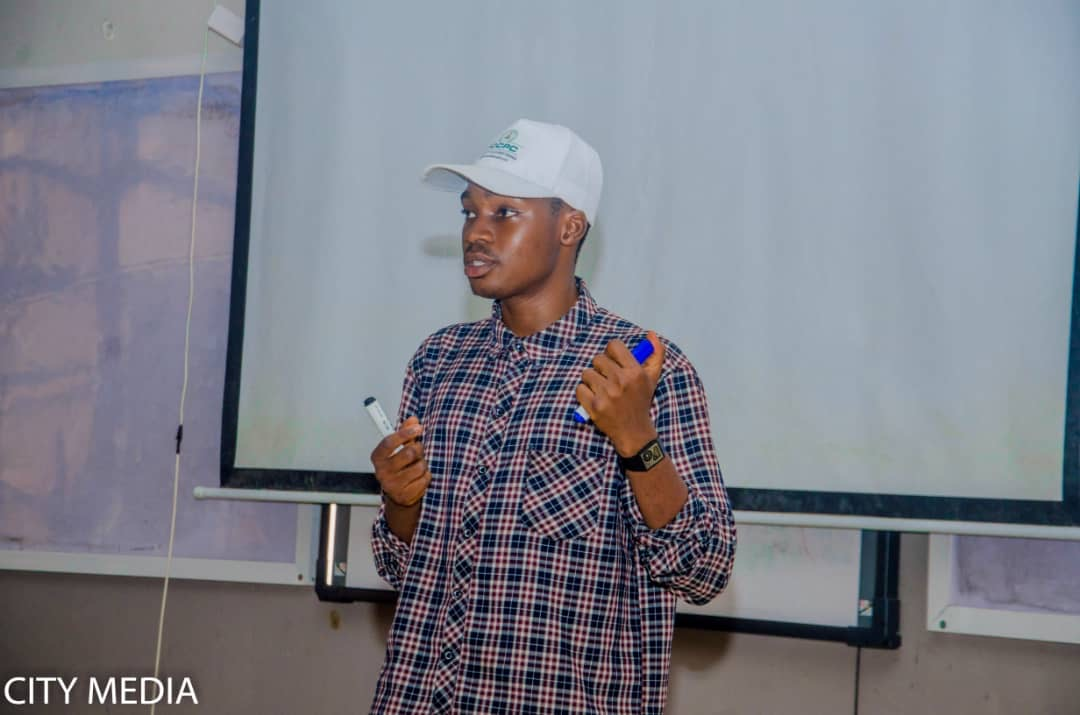
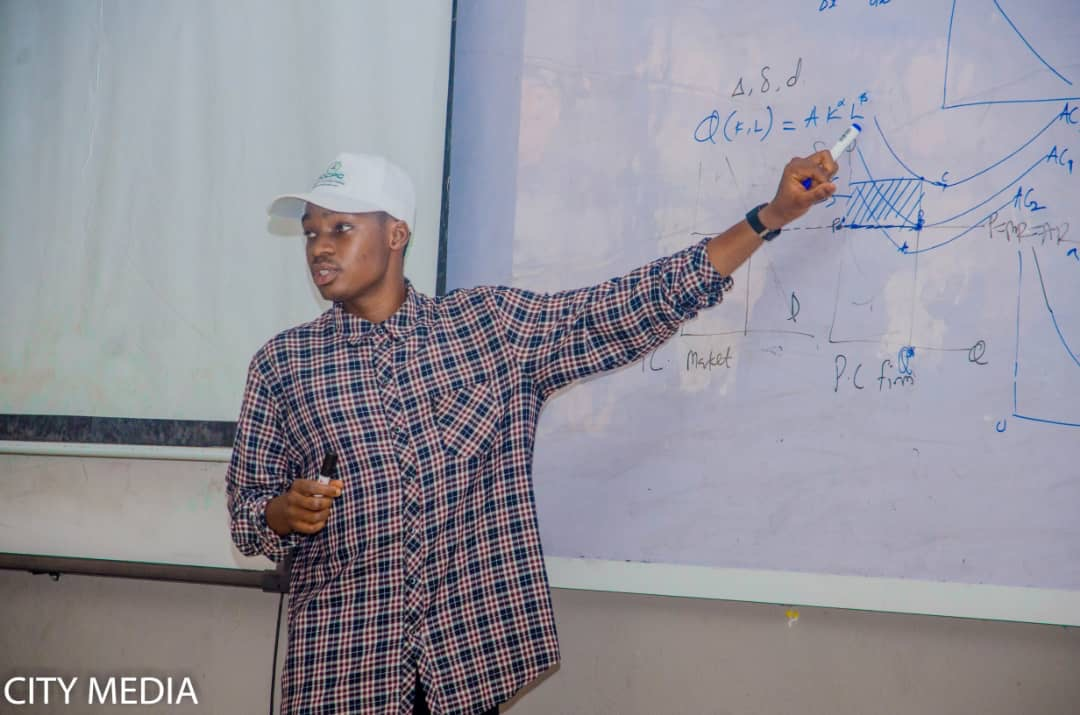
Concise year and location captions on all slideshows; use cost curves photo for 2017 slide
Claude-Session: https://claude.ai/code/session_01EyAV5mvgpp54gZxAZck6sP

diff --git a/teaching.html b/teaching.html
@@ -1,1 +1,1 @@
-<!doctype html><html lang="en"><head><meta charset="utf-8"><meta name="viewport" content="width=device-width,initial-scale=1"><title>Teaching | Muiz Olasupo</title><link rel="canonical" href="https://muizolasupo.com/teaching.html"><meta name="description" content="Teaching by Muiz Olasupo, Ph.D. student in Economics at the University at Buffalo: courses supported and teaching approach."><link rel="preconnect" href="https://fonts.googleapis.com"><link rel="preconnect" href="https://fonts.gstatic.com" crossorigin><link href="https://fonts.googleapis.com/css2?family=Barlow+Condensed:wght@500;600;700&family=Inter:wght@400;500;600;700&display=swap" rel="stylesheet"><link rel="stylesheet" href="/styles.css"><link rel="stylesheet" href="/story.css"><link rel="stylesheet" href="/photo-story.css"><link rel="stylesheet" href="/monochrome.css"><link rel="stylesheet" href="/refinements.css?v=20261004"></head><body><nav class="nav" aria-label="Main navigation"><div class="wrap"><a class="brand" href="index.html">Muiz Olasupo<b>.</b></a><div class="links"><a href="index.html">Home</a><a href="about.html">About</a><a href="papers.html">Working Papers / Publications</a><a href="innovation.html">Innovation</a><a class="active" aria-current="page" href="teaching.html">Teaching</a><a href="cv.html">CV</a><a href="contact.html">Contact</a></div></div></nav><main><header class="page-head"><div class="wrap"><h1>Teaching</h1><p>I help students connect economic ideas to evidence through clear explanations, worked examples, and discussion.</p></div></header><section><div class="wrap"><div class="about-row"><h2>Courses supported</h2><ul class="course-list"><li>Microeconomics</li><li>Macroeconomics</li><li>U.S. Economic History</li><li>AI and Economic Policy</li><li>Monetary and Financial Institutions</li><li>Economics of Education</li></ul></div><div class="about-row"><h2>My approach</h2><p>I use guided worksheets and applied examples to help students understand the reasoning behind an answer. The aim is to build confidence with economic intuition, graphs, and formal analysis.</p></div><div class="carousel story-carousel photo-gallery teaching-gallery" data-carousel tabindex="0" aria-label="Teaching photographs"><div class="slides"><article class="slide story-slide active"><div class="story-surface"><figure class="story-photo"><img src="/images/teaching-fall2026-UB1.jpg" alt="Muiz Olasupo explaining a price ceiling diagram to a lecture hall at the University at Buffalo" loading="eager" decoding="async"></figure></div><div class="story-text"><span class="slide-kicker">Fall 2026 · University at Buffalo (SUNY)</span><h2>Price controls and shortages</h2><p>Using a price ceiling to show how a gap opens between quantity demanded and quantity supplied, and why the shortage persists while the ceiling binds.</p></div></article><article class="slide story-slide" hidden><div class="story-surface"><figure class="story-photo"><img src="/images/teaching-fall2026-UB2.jpg" alt="Muiz Olasupo presenting an applied pricing problem to a full lecture hall at the University at Buffalo" loading="lazy" decoding="async"></figure></div><div class="story-text"><span class="slide-kicker">Fall 2026 · University at Buffalo (SUNY)</span><h2>Supply and demand in a pricing decision</h2><p>An applied problem for a full lecture hall: students use market research on subscriptions to judge what price a new app can sustain.</p></div></article><article class="slide story-slide" hidden><div class="story-surface"><figure class="story-photo"><img src="/images/teaching-fall2024-SIUC1.jpg" alt="Muiz Olasupo explaining average and marginal product of labor on a chalkboard at Southern Illinois University Carbondale" loading="lazy" decoding="async"></figure></div><div class="story-text"><span class="slide-kicker">Fall 2024 · Southern Illinois University Carbondale</span><h2>Average and marginal product</h2><p>Deriving average and marginal product from y = 10L² − L³, and showing that marginal product exceeds average product until L = 5, where average product peaks.</p></div></article><article class="slide story-slide" hidden><div class="story-surface"><figure class="story-photo"><img src="/images/teaching-fall2024-SIUC2.jpg" alt="Muiz Olasupo solving a system of equations with an augmented matrix at Southern Illinois University Carbondale" loading="lazy" decoding="async"></figure></div><div class="story-text"><span class="slide-kicker">Fall 2024 · Southern Illinois University Carbondale</span><h2>Solving systems with matrices</h2><p>Writing a three-equation system as an augmented matrix and solving it step by step with row operations.</p></div></article><article class="slide story-slide" hidden><div class="story-surface"><figure class="story-photo"><img src="/images/teaching-2018-2021-NG1.jpg" alt="Muiz Olasupo teaching English grammar to a class in Nigeria" loading="lazy" decoding="async"></figure></div><div class="story-text"><span class="slide-kicker">2018 to 2021 · Nigeria</span><h2>Grammatical names and functions</h2><p>A Use of English lesson on how a noun phrase can serve as the subject of a verb, the object of a verb, or a complement, with worked sentences on the board.</p></div></article><article class="slide story-slide" hidden><div class="story-surface"><figure class="story-photo"><img src="/images/teaching-2018-2021-NG2.jpg" alt="Muiz Olasupo writing a list of verbs followed by the preposition to on a whiteboard" loading="lazy" decoding="async"></figure></div><div class="story-text"><span class="slide-kicker">2018 to 2021 · Nigeria</span><h2>Verbs that take “to”</h2><p>Building a reference list of verbs followed by the preposition “to”, such as adapt, agree, belong, and consent.</p></div></article><article class="slide story-slide" hidden><div class="story-surface"><figure class="story-photo"><img src="/images/teaching-2017-UI1.jpg" alt="Muiz Olasupo leading an economics tutorial at the University of Ibadan in 2017" loading="lazy" decoding="async"></figure></div><div class="story-text"><span class="slide-kicker">2017 · Social Science LLT, University of Ibadan</span><h2>Production and cost theory</h2><p>Leading a tutorial on the theory of the firm, from the Cobb-Douglas production function to the cost curves of a competitive firm.</p></div></article></div><p class="sr-only" data-slide-status aria-live="polite"></p><div class="story-bottom"><div class="carousel-dots"><button class="carousel-dot active" aria-label="Show photograph 1: Price controls" aria-pressed="true"><span class="sr-only">Price controls</span></button><button class="carousel-dot" aria-label="Show photograph 2: Pricing decision" aria-pressed="false"><span class="sr-only">Pricing decision</span></button><button class="carousel-dot" aria-label="Show photograph 3: Average and marginal product" aria-pressed="false"><span class="sr-only">Average and marginal product</span></button><button class="carousel-dot" aria-label="Show photograph 4: Matrix methods" aria-pressed="false"><span class="sr-only">Matrix methods</span></button><button class="carousel-dot" aria-label="Show photograph 5: Grammatical functions" aria-pressed="false"><span class="sr-only">Grammatical functions</span></button><button class="carousel-dot" aria-label="Show photograph 6: Verbs with &quot;to&quot;" aria-pressed="false"><span class="sr-only">Verbs with &quot;to&quot;</span></button><button class="carousel-dot" aria-label="Show photograph 7: Theory of the firm" aria-pressed="false"><span class="sr-only">Theory of the firm</span></button></div><div class="carousel-controls"><button class="carousel-btn prev" aria-label="Previous photograph">←</button><button class="carousel-btn next" aria-label="Next photograph">→</button></div></div></div></div></section></main><footer><div class="wrap foot"><span>© <span data-year></span> Muiz Olasupo</span><div class="social-links" aria-label="Professional profiles"><a class="social-icon " href="https://www.linkedin.com/in/muizolasupo" aria-label="LinkedIn" title="LinkedIn" target="_blank" rel="noopener"><img src="/icons/linkedin.svg" alt=""></a><a class="social-icon" href="https://github.com/muizolasupo" aria-label="GitHub" title="GitHub" target="_blank" rel="noopener"><img src="/icons/github.svg" alt=""></a><a class="social-icon ub-icon" href="https://arts-sciences.buffalo.edu/economics/graduate/meet-our-graduatestudents.html" aria-label="University at Buffalo" title="University at Buffalo" target="_blank" rel="noopener"><img src="/icons/ub.png" alt=""></a><a class="social-icon" href="https://papers.ssrn.com/sol3/cf_dev/AbsByAuth.cfm?per_id=8171556" aria-label="SSRN author page" title="SSRN author page" target="_blank" rel="noopener"><img src="/icons/ssrn.svg" alt=""></a><a class="social-icon meso-logo" href="https://mesoinsights.com" target="_blank" rel="noopener" aria-label="Meso Insights" title="Meso Insights"><img src="/icons/meso.png" alt=""></a></div></div></footer><script src="/site.js?v=20261003b"></script></body></html>
+<!doctype html><html lang="en"><head><meta charset="utf-8"><meta name="viewport" content="width=device-width,initial-scale=1"><title>Teaching | Muiz Olasupo</title><link rel="canonical" href="https://muizolasupo.com/teaching.html"><meta name="description" content="Teaching by Muiz Olasupo, Ph.D. student in Economics at the University at Buffalo: courses supported and teaching approach."><link rel="preconnect" href="https://fonts.googleapis.com"><link rel="preconnect" href="https://fonts.gstatic.com" crossorigin><link href="https://fonts.googleapis.com/css2?family=Barlow+Condensed:wght@500;600;700&family=Inter:wght@400;500;600;700&display=swap" rel="stylesheet"><link rel="stylesheet" href="/styles.css"><link rel="stylesheet" href="/story.css"><link rel="stylesheet" href="/photo-story.css"><link rel="stylesheet" href="/monochrome.css"><link rel="stylesheet" href="/refinements.css?v=20261004"></head><body><nav class="nav" aria-label="Main navigation"><div class="wrap"><a class="brand" href="index.html">Muiz Olasupo<b>.</b></a><div class="links"><a href="index.html">Home</a><a href="about.html">About</a><a href="papers.html">Working Papers / Publications</a><a href="innovation.html">Innovation</a><a class="active" aria-current="page" href="teaching.html">Teaching</a><a href="cv.html">CV</a><a href="contact.html">Contact</a></div></div></nav><main><header class="page-head"><div class="wrap"><h1>Teaching</h1><p>I help students connect economic ideas to evidence through clear explanations, worked examples, and discussion.</p></div></header><section><div class="wrap"><div class="about-row"><h2>Courses supported</h2><ul class="course-list"><li>Microeconomics</li><li>Macroeconomics</li><li>U.S. Economic History</li><li>AI and Economic Policy</li><li>Monetary and Financial Institutions</li><li>Economics of Education</li></ul></div><div class="about-row"><h2>My approach</h2><p>I use guided worksheets and applied examples to help students understand the reasoning behind an answer. The aim is to build confidence with economic intuition, graphs, and formal analysis.</p></div><div class="carousel story-carousel photo-gallery teaching-gallery" data-carousel tabindex="0" aria-label="Teaching photographs"><div class="slides"><article class="slide story-slide active"><div class="story-surface"><figure class="story-photo"><img src="/images/teaching-fall2026-UB1.jpg" alt="Muiz Olasupo explaining a price ceiling diagram to a lecture hall at the University at Buffalo" loading="eager" decoding="async"></figure></div><div class="story-text"><h2>Fall 2026</h2><p>University at Buffalo (SUNY)</p></div></article><article class="slide story-slide" hidden><div class="story-surface"><figure class="story-photo"><img src="/images/teaching-fall2026-UB2.jpg" alt="Muiz Olasupo presenting an applied pricing problem to a full lecture hall at the University at Buffalo" loading="lazy" decoding="async"></figure></div><div class="story-text"><h2>Fall 2026</h2><p>University at Buffalo (SUNY)</p></div></article><article class="slide story-slide" hidden><div class="story-surface"><figure class="story-photo"><img src="/images/teaching-fall2024-SIUC1.jpg" alt="Muiz Olasupo explaining average and marginal product of labor on a chalkboard at Southern Illinois University Carbondale" loading="lazy" decoding="async"></figure></div><div class="story-text"><h2>Fall 2024</h2><p>Southern Illinois University Carbondale</p></div></article><article class="slide story-slide" hidden><div class="story-surface"><figure class="story-photo"><img src="/images/teaching-fall2024-SIUC2.jpg" alt="Muiz Olasupo solving a system of equations with an augmented matrix at Southern Illinois University Carbondale" loading="lazy" decoding="async"></figure></div><div class="story-text"><h2>Fall 2024</h2><p>Southern Illinois University Carbondale</p></div></article><article class="slide story-slide" hidden><div class="story-surface"><figure class="story-photo"><img src="/images/teaching-2018-2021-NG1.jpg" alt="Muiz Olasupo teaching English grammar to a class in Nigeria" loading="lazy" decoding="async"></figure></div><div class="story-text"><h2>Nigeria</h2></div></article><article class="slide story-slide" hidden><div class="story-surface"><figure class="story-photo"><img src="/images/teaching-2018-2021-NG2.jpg" alt="Muiz Olasupo writing a list of verbs followed by the preposition to on a whiteboard" loading="lazy" decoding="async"></figure></div><div class="story-text"><h2>Nigeria</h2></div></article><article class="slide story-slide" hidden><div class="story-surface"><figure class="story-photo"><img src="/images/teaching-2017-UI1.jpg" alt="Muiz Olasupo pointing to cost curves on the board during a tutorial at the University of Ibadan" loading="lazy" decoding="async"></figure></div><div class="story-text"><h2>2017</h2><p>Social Science LLT, University of Ibadan</p></div></article></div><p class="sr-only" data-slide-status aria-live="polite"></p><div class="story-bottom"><div class="carousel-dots"><button class="carousel-dot active" aria-label="Show photograph 1: Fall 2026, University at Buffalo (SUNY)" aria-pressed="true"><span class="sr-only">Fall 2026, University at Buffalo (SUNY)</span></button><button class="carousel-dot" aria-label="Show photograph 2: Fall 2026, University at Buffalo (SUNY)" aria-pressed="false"><span class="sr-only">Fall 2026, University at Buffalo (SUNY)</span></button><button class="carousel-dot" aria-label="Show photograph 3: Fall 2024, Southern Illinois University Carbondale" aria-pressed="false"><span class="sr-only">Fall 2024, Southern Illinois University Carbondale</span></button><button class="carousel-dot" aria-label="Show photograph 4: Fall 2024, Southern Illinois University Carbondale" aria-pressed="false"><span class="sr-only">Fall 2024, Southern Illinois University Carbondale</span></button><button class="carousel-dot" aria-label="Show photograph 5: Nigeria" aria-pressed="false"><span class="sr-only">Nigeria</span></button><button class="carousel-dot" aria-label="Show photograph 6: Nigeria" aria-pressed="false"><span class="sr-only">Nigeria</span></button><button class="carousel-dot" aria-label="Show photograph 7: 2017, Social Science LLT, University of Ibadan" aria-pressed="false"><span class="sr-only">2017, Social Science LLT, University of Ibadan</span></button></div><div class="carousel-controls"><button class="carousel-btn prev" aria-label="Previous photograph">←</button><button class="carousel-btn next" aria-label="Next photograph">→</button></div></div></div></div></section></main><footer><div class="wrap foot"><span>© <span data-year></span> Muiz Olasupo</span><div class="social-links" aria-label="Professional profiles"><a class="social-icon " href="https://www.linkedin.com/in/muizolasupo" aria-label="LinkedIn" title="LinkedIn" target="_blank" rel="noopener"><img src="/icons/linkedin.svg" alt=""></a><a class="social-icon" href="https://github.com/muizolasupo" aria-label="GitHub" title="GitHub" target="_blank" rel="noopener"><img src="/icons/github.svg" alt=""></a><a class="social-icon ub-icon" href="https://arts-sciences.buffalo.edu/economics/graduate/meet-our-graduatestudents.html" aria-label="University at Buffalo" title="University at Buffalo" target="_blank" rel="noopener"><img src="/icons/ub.png" alt=""></a><a class="social-icon" href="https://papers.ssrn.com/sol3/cf_dev/AbsByAuth.cfm?per_id=8171556" aria-label="SSRN author page" title="SSRN author page" target="_blank" rel="noopener"><img src="/icons/ssrn.svg" alt=""></a><a class="social-icon meso-logo" href="https://mesoinsights.com" target="_blank" rel="noopener" aria-label="Meso Insights" title="Meso Insights"><img src="/icons/meso.png" alt=""></a></div></div></footer><script src="/site.js?v=20261003b"></script></body></html>

diff --git a/about.html b/about.html
@@ -1,1 +1,1 @@
-<!doctype html><html lang="en"><head><meta charset="utf-8"><meta name="viewport" content="width=device-width,initial-scale=1"><title>About | Muiz Olasupo</title><link rel="canonical" href="https://muizolasupo.com/about.html"><meta name="description" content="About Muiz Olasupo, Ph.D. student in Economics at the University at Buffalo: research interests, education, methods, and software."><link rel="preconnect" href="https://fonts.googleapis.com"><link rel="preconnect" href="https://fonts.gstatic.com" crossorigin><link href="https://fonts.googleapis.com/css2?family=Barlow+Condensed:wght@500;600;700&family=Inter:wght@400;500;600;700&display=swap" rel="stylesheet"><link rel="stylesheet" href="/styles.css"><link rel="stylesheet" href="/story.css"><link rel="stylesheet" href="/photo-story.css"><link rel="stylesheet" href="/monochrome.css"><link rel="stylesheet" href="/refinements.css?v=20261004"></head><body><nav class="nav" aria-label="Main navigation"><div class="wrap"><a class="brand" href="index.html">Muiz Olasupo<b>.</b></a><div class="links"><a href="index.html">Home</a><a class="active" aria-current="page" href="about.html">About</a><a href="papers.html">Working Papers / Publications</a><a href="innovation.html">Innovation</a><a href="teaching.html">Teaching</a><a href="cv.html">CV</a><a href="contact.html">Contact</a></div></div></nav><main><header class="page-head"><div class="wrap"><h1>About</h1></div></header><section class="about-content"><div class="wrap"><div class="bio-copy"><p>I am a Ph.D. student in Economics at the University at Buffalo (SUNY) whose research integrates applied micro, causal inference, and machine learning to address questions in labor &amp; education, health, and development economics.</p><p>My work focuses on leveraging modern computational and econometric methods to uncover heterogeneous treatment effects, improve policy evaluation, and advance data-driven decisions in both developed and emerging economies. I also feature skills in Business Intelligence where I present complex data into clear insights and meaningful stories.</p><p>Alongside my academic research, I am interested in quantitative finance and the use of economic analysis in business. Through <a href="innovation.html">ACWIS and Meso Insights</a>, I am developing practical tools for health-workforce planning and organizational decision-making, with an emphasis on clear communication and careful interpretation of evidence.</p></div><div class="about-gallery"><h2 class="about-gallery-title">Doctoral Fellowship Award</h2><div class="carousel story-carousel photo-gallery about-gallery-carousel" data-carousel tabindex="0" aria-label="Doctoral fellowship award photographs"><div class="slides"><article class="slide story-slide active"><div class="story-surface"><figure class="story-photo"><img src="/images/fellowship-siuc-fall2024-1.jpg" alt="Muiz Olasupo receiving the Doctoral Fellowship certificate on stage at Southern Illinois University Carbondale" loading="eager" decoding="async"></figure></div><div class="story-text"><span class="slide-kicker">Fall 2024 · Southern Illinois University Carbondale</span><h2>Receiving the Doctoral Fellowship</h2><p>Called to the stage at the university fellowship ceremony to receive the Doctoral Fellowship award.</p></div></article><article class="slide story-slide" hidden><div class="story-surface"><figure class="story-photo"><img src="/images/fellowship-siuc-fall2024-2.jpg" alt="Muiz Olasupo holding his Doctoral Fellowship certificate on stage with university officials" loading="lazy" decoding="async"></figure></div><div class="story-text"><span class="slide-kicker">Fall 2024 · Southern Illinois University Carbondale</span><h2>Honored at the fellowship ceremony</h2><p>Holding the Doctoral Fellowship certificate on stage with the officials who presented it.</p></div></article><article class="slide story-slide" hidden><div class="story-surface"><figure class="story-photo"><img src="/images/fellowship-siuc-fall2024-3.jpg" alt="Muiz Olasupo holding his Doctoral Fellowship certificate beneath an engraved inscription wall" loading="lazy" decoding="async"></figure></div><div class="story-text"><span class="slide-kicker">Fall 2024 · Southern Illinois University Carbondale</span><h2>Doctoral Fellow</h2><p>With the certificate beneath the inscription that begins “To advance learning in all lines of truth wherever they may lead.”</p></div></article></div><p class="sr-only" data-slide-status aria-live="polite"></p><div class="story-bottom"><div class="carousel-dots"><button class="carousel-dot active" aria-label="Show photograph 1: Receiving the award" aria-pressed="true"><span class="sr-only">Receiving the award</span></button><button class="carousel-dot" aria-label="Show photograph 2: On stage" aria-pressed="false"><span class="sr-only">On stage</span></button><button class="carousel-dot" aria-label="Show photograph 3: Doctoral Fellow" aria-pressed="false"><span class="sr-only">Doctoral Fellow</span></button></div><div class="carousel-controls"><button class="carousel-btn prev" aria-label="Previous photograph">←</button><button class="carousel-btn next" aria-label="Next photograph">→</button></div></div></div></div><div class="about-row"><h2>Education</h2><div class="education-list"><p><strong>Ph.D. Economics</strong><span>University at Buffalo, SUNY · In progress</span></p><p><strong>M.Sc. Economics</strong><span>University of Lagos · Distinction</span></p><p><strong>B.Sc. Economics</strong><span>University of Ibadan</span></p></div></div><div class="about-row"><h2>Honors</h2><div class="education-list"><p><strong>Doctoral Fellowship</strong><span>Southern Illinois University Carbondale · Fall 2024</span></p><p><strong>Best Graduating Student</strong><span>M.Sc. Economics, University of Lagos · 2022/23</span></p></div></div><div class="about-row"><h2>Methods</h2><p>I use applied econometrics and machine learning to study policy effects and how they vary across people and places. My approach combines credible identification, careful validation, and reproducible analysis.</p></div><div class="about-row"><h2>Software</h2><p class="software-list">Stata · R · Python · SAS · MATLAB · LaTeX · Git &amp; GitHub · Excel · Power BI</p></div></div></section></main><footer><div class="wrap foot"><span>© <span data-year></span> Muiz Olasupo</span><div class="social-links" aria-label="Professional profiles"><a class="social-icon " href="https://www.linkedin.com/in/muizolasupo" aria-label="LinkedIn" title="LinkedIn" target="_blank" rel="noopener"><img src="/icons/linkedin.svg" alt=""></a><a class="social-icon" href="https://github.com/muizolasupo" aria-label="GitHub" title="GitHub" target="_blank" rel="noopener"><img src="/icons/github.svg" alt=""></a><a class="social-icon ub-icon" href="https://arts-sciences.buffalo.edu/economics/graduate/meet-our-graduatestudents.html" aria-label="University at Buffalo" title="University at Buffalo" target="_blank" rel="noopener"><img src="/icons/ub.png" alt=""></a><a class="social-icon" href="https://papers.ssrn.com/sol3/cf_dev/AbsByAuth.cfm?per_id=8171556" aria-label="SSRN author page" title="SSRN author page" target="_blank" rel="noopener"><img src="/icons/ssrn.svg" alt=""></a><a class="social-icon meso-logo" href="https://mesoinsights.com" target="_blank" rel="noopener" aria-label="Meso Insights" title="Meso Insights"><img src="/icons/meso.png" alt=""></a></div></div></footer><script src="/site.js?v=20261003b"></script></body></html>
+<!doctype html><html lang="en"><head><meta charset="utf-8"><meta name="viewport" content="width=device-width,initial-scale=1"><title>About | Muiz Olasupo</title><link rel="canonical" href="https://muizolasupo.com/about.html"><meta name="description" content="About Muiz Olasupo, Ph.D. student in Economics at the University at Buffalo: research interests, education, methods, and software."><link rel="preconnect" href="https://fonts.googleapis.com"><link rel="preconnect" href="https://fonts.gstatic.com" crossorigin><link href="https://fonts.googleapis.com/css2?family=Barlow+Condensed:wght@500;600;700&family=Inter:wght@400;500;600;700&display=swap" rel="stylesheet"><link rel="stylesheet" href="/styles.css"><link rel="stylesheet" href="/story.css"><link rel="stylesheet" href="/photo-story.css"><link rel="stylesheet" href="/monochrome.css"><link rel="stylesheet" href="/refinements.css?v=20261004"></head><body><nav class="nav" aria-label="Main navigation"><div class="wrap"><a class="brand" href="index.html">Muiz Olasupo<b>.</b></a><div class="links"><a href="index.html">Home</a><a class="active" aria-current="page" href="about.html">About</a><a href="papers.html">Working Papers / Publications</a><a href="innovation.html">Innovation</a><a href="teaching.html">Teaching</a><a href="cv.html">CV</a><a href="contact.html">Contact</a></div></div></nav><main><header class="page-head"><div class="wrap"><h1>About</h1></div></header><section class="about-content"><div class="wrap"><div class="bio-copy"><p>I am a Ph.D. student in Economics at the University at Buffalo (SUNY) whose research integrates applied micro, causal inference, and machine learning to address questions in labor &amp; education, health, and development economics.</p><p>My work focuses on leveraging modern computational and econometric methods to uncover heterogeneous treatment effects, improve policy evaluation, and advance data-driven decisions in both developed and emerging economies. I also feature skills in Business Intelligence where I present complex data into clear insights and meaningful stories.</p><p>Alongside my academic research, I am interested in quantitative finance and the use of economic analysis in business. Through <a href="innovation.html">ACWIS and Meso Insights</a>, I am developing practical tools for health-workforce planning and organizational decision-making, with an emphasis on clear communication and careful interpretation of evidence.</p></div><div class="about-gallery"><h2 class="about-gallery-title">Doctoral Fellowship Award</h2><div class="carousel story-carousel photo-gallery about-gallery-carousel" data-carousel tabindex="0" aria-label="Doctoral fellowship award photographs"><div class="slides"><article class="slide story-slide active"><div class="story-surface"><figure class="story-photo"><img src="/images/fellowship-siuc-fall2024-1.jpg" alt="Muiz Olasupo receiving the Doctoral Fellowship certificate on stage at Southern Illinois University Carbondale" loading="eager" decoding="async"></figure></div><div class="story-text"><h2>Fall 2024</h2><p>Southern Illinois University Carbondale</p></div></article><article class="slide story-slide" hidden><div class="story-surface"><figure class="story-photo"><img src="/images/fellowship-siuc-fall2024-2.jpg" alt="Muiz Olasupo holding his Doctoral Fellowship certificate on stage with university officials" loading="lazy" decoding="async"></figure></div><div class="story-text"><h2>Fall 2024</h2><p>Southern Illinois University Carbondale</p></div></article><article class="slide story-slide" hidden><div class="story-surface"><figure class="story-photo"><img src="/images/fellowship-siuc-fall2024-3.jpg" alt="Muiz Olasupo holding his Doctoral Fellowship certificate beneath an engraved inscription wall" loading="lazy" decoding="async"></figure></div><div class="story-text"><h2>Fall 2024</h2><p>Southern Illinois University Carbondale</p></div></article></div><p class="sr-only" data-slide-status aria-live="polite"></p><div class="story-bottom"><div class="carousel-dots"><button class="carousel-dot active" aria-label="Show photograph 1: Fall 2024, Southern Illinois University Carbondale" aria-pressed="true"><span class="sr-only">Fall 2024, Southern Illinois University Carbondale</span></button><button class="carousel-dot" aria-label="Show photograph 2: Fall 2024, Southern Illinois University Carbondale" aria-pressed="false"><span class="sr-only">Fall 2024, Southern Illinois University Carbondale</span></button><button class="carousel-dot" aria-label="Show photograph 3: Fall 2024, Southern Illinois University Carbondale" aria-pressed="false"><span class="sr-only">Fall 2024, Southern Illinois University Carbondale</span></button></div><div class="carousel-controls"><button class="carousel-btn prev" aria-label="Previous photograph">←</button><button class="carousel-btn next" aria-label="Next photograph">→</button></div></div></div></div><div class="about-row"><h2>Education</h2><div class="education-list"><p><strong>Ph.D. Economics</strong><span>University at Buffalo, SUNY · In progress</span></p><p><strong>M.Sc. Economics</strong><span>University of Lagos · Distinction</span></p><p><strong>B.Sc. Economics</strong><span>University of Ibadan</span></p></div></div><div class="about-row"><h2>Honors</h2><div class="education-list"><p><strong>Doctoral Fellowship</strong><span>Southern Illinois University Carbondale · Fall 2024</span></p><p><strong>Best Graduating Student</strong><span>M.Sc. Economics, University of Lagos · 2022/23</span></p></div></div><div class="about-row"><h2>Methods</h2><p>I use applied econometrics and machine learning to study policy effects and how they vary across people and places. My approach combines credible identification, careful validation, and reproducible analysis.</p></div><div class="about-row"><h2>Software</h2><p class="software-list">Stata · R · Python · SAS · MATLAB · LaTeX · Git &amp; GitHub · Excel · Power BI</p></div></div></section></main><footer><div class="wrap foot"><span>© <span data-year></span> Muiz Olasupo</span><div class="social-links" aria-label="Professional profiles"><a class="social-icon " href="https://www.linkedin.com/in/muizolasupo" aria-label="LinkedIn" title="LinkedIn" target="_blank" rel="noopener"><img src="/icons/linkedin.svg" alt=""></a><a class="social-icon" href="https://github.com/muizolasupo" aria-label="GitHub" title="GitHub" target="_blank" rel="noopener"><img src="/icons/github.svg" alt=""></a><a class="social-icon ub-icon" href="https://arts-sciences.buffalo.edu/economics/graduate/meet-our-graduatestudents.html" aria-label="University at Buffalo" title="University at Buffalo" target="_blank" rel="noopener"><img src="/icons/ub.png" alt=""></a><a class="social-icon" href="https://papers.ssrn.com/sol3/cf_dev/AbsByAuth.cfm?per_id=8171556" aria-label="SSRN author page" title="SSRN author page" target="_blank" rel="noopener"><img src="/icons/ssrn.svg" alt=""></a><a class="social-icon meso-logo" href="https://mesoinsights.com" target="_blank" rel="noopener" aria-label="Meso Insights" title="Meso Insights"><img src="/icons/meso.png" alt=""></a></div></div></footer><script src="/site.js?v=20261003b"></script></body></html>

diff --git a/refinements.css b/refinements.css
@@ -93,6 +93,3 @@ footer .meso-logo img{filter:none;width:30px;height:30px}.teaching-gallery{margi
 .about-gallery{margin:6px 0 34px}
 .about-gallery-title{font-size:1.4rem;margin:0 0 16px;line-height:1.4}
 
-/* Place-and-date line above slideshow titles. */
-.photo-gallery .story-text .slide-kicker{display:block;margin:0 0 8px;font-size:.75rem;font-weight:600;letter-spacing:.08em;text-transform:uppercase;color:#d6d6d6}
-@media(max-width:700px){.photo-gallery .story-text .slide-kicker{font-size:.68rem;margin-bottom:6px}}
